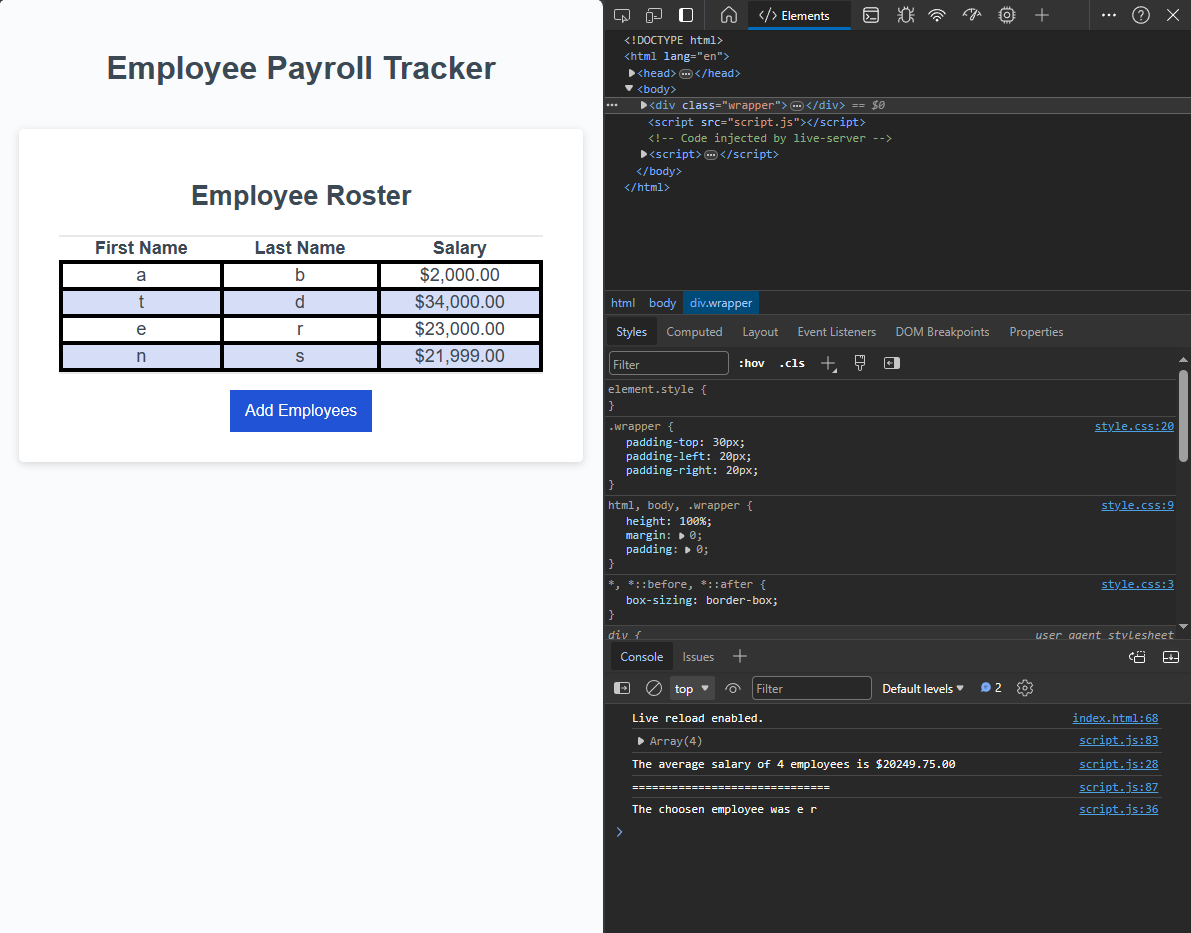
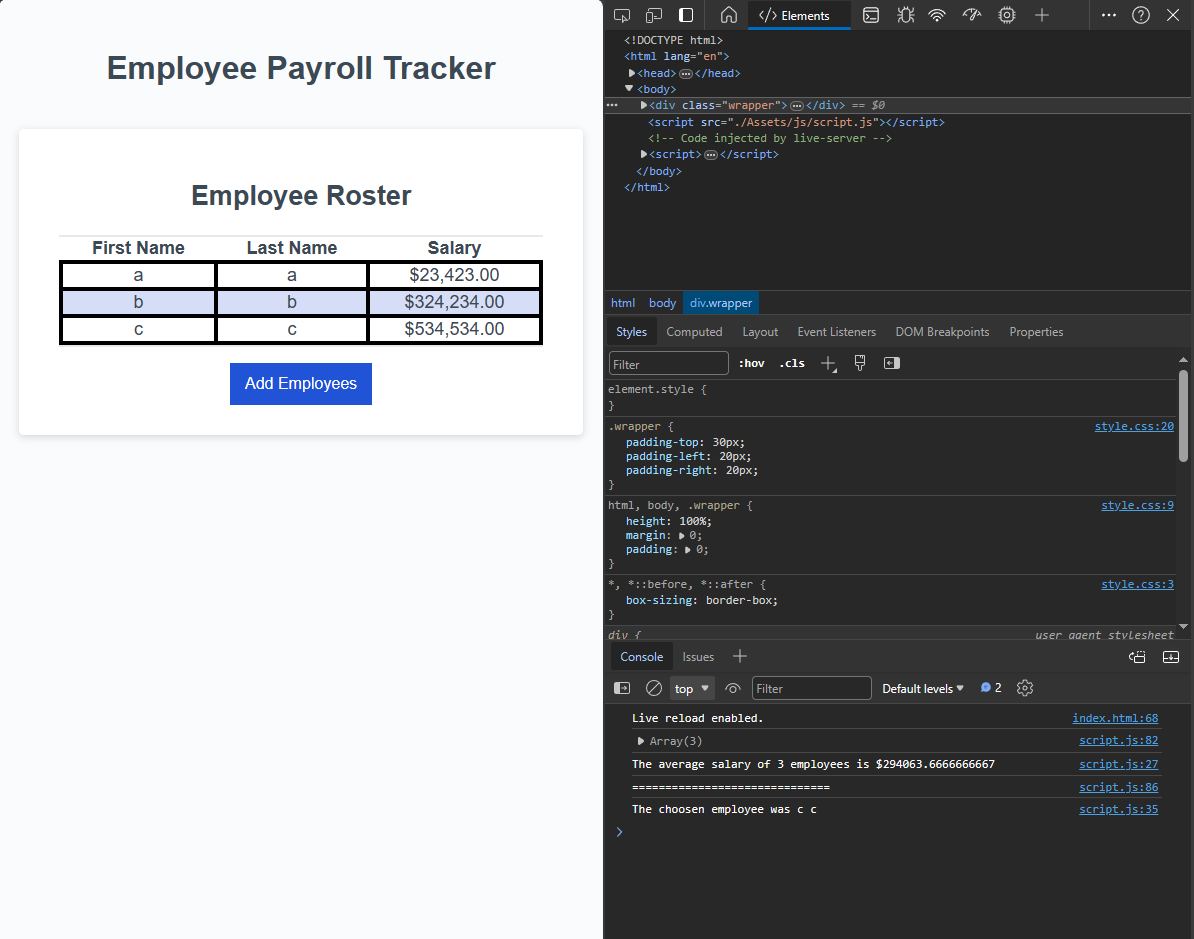
correction

diff --git a/Assets/js/script.js b/Assets/js/script.js
@@ -24,7 +24,7 @@ const displayAverageSalary = function (employeesArray) {
     salary += employeesArray[i].salary
   }
   const averageSalary = salary / employeesArray.length
-  console.log(`The average salary of ${employeesArray.length} employees is $${averageSalary}.00`)
+  console.log(`The average salary of ${employeesArray.length} employees is $${averageSalary}`)
 }
 
 // Select a random employee
